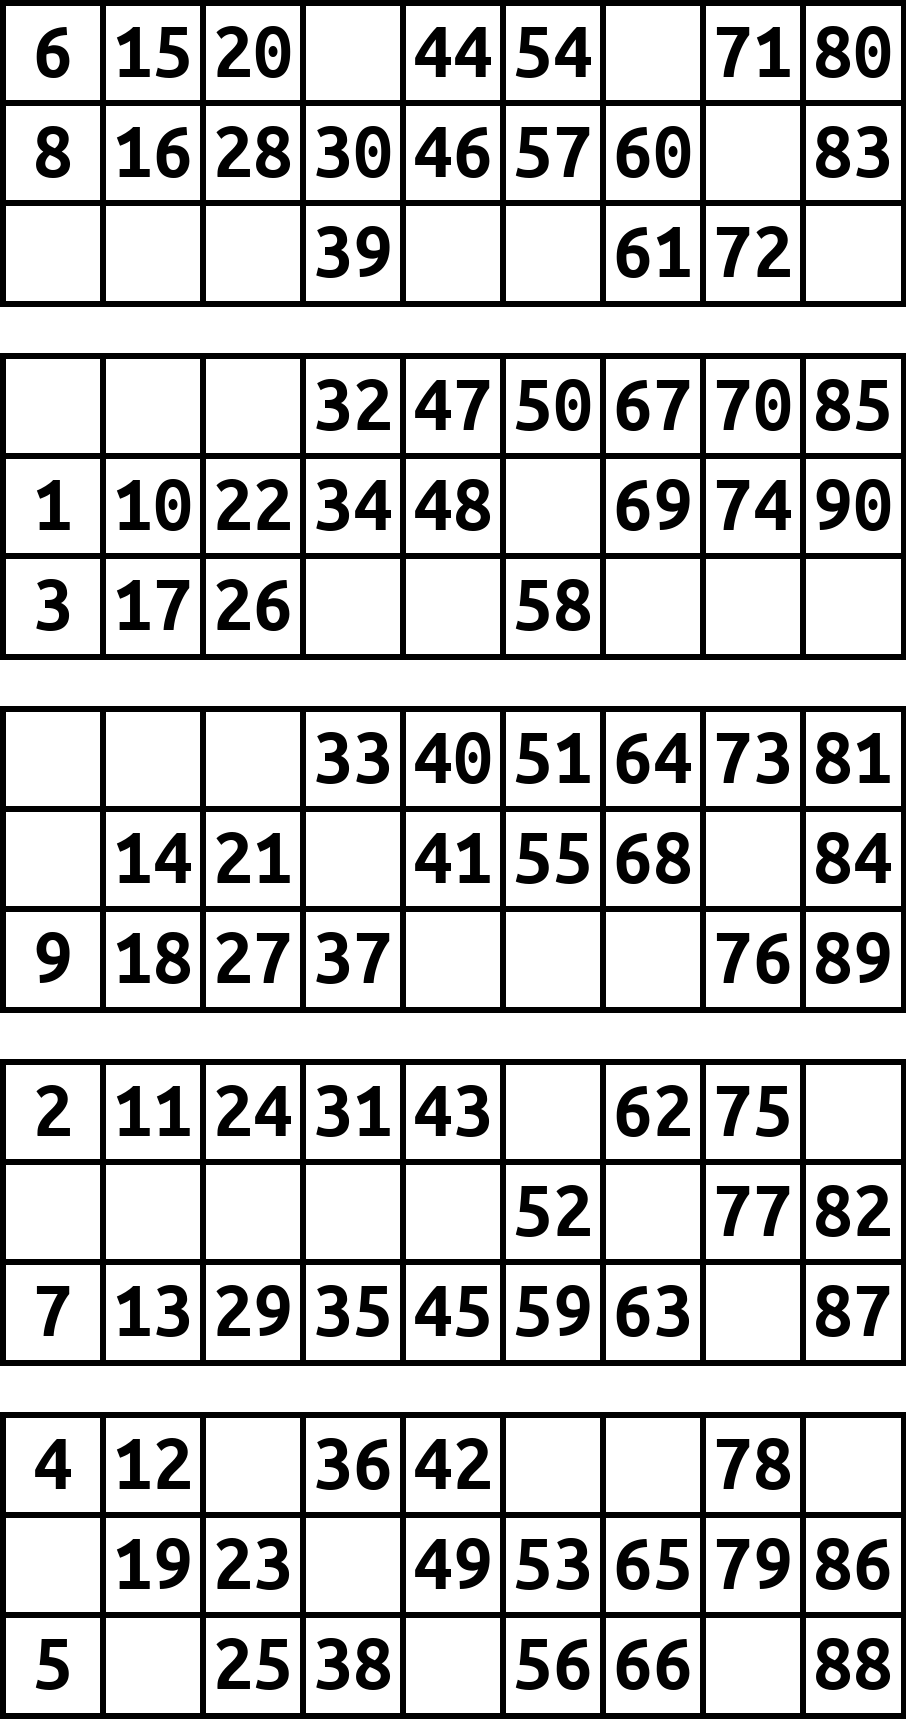
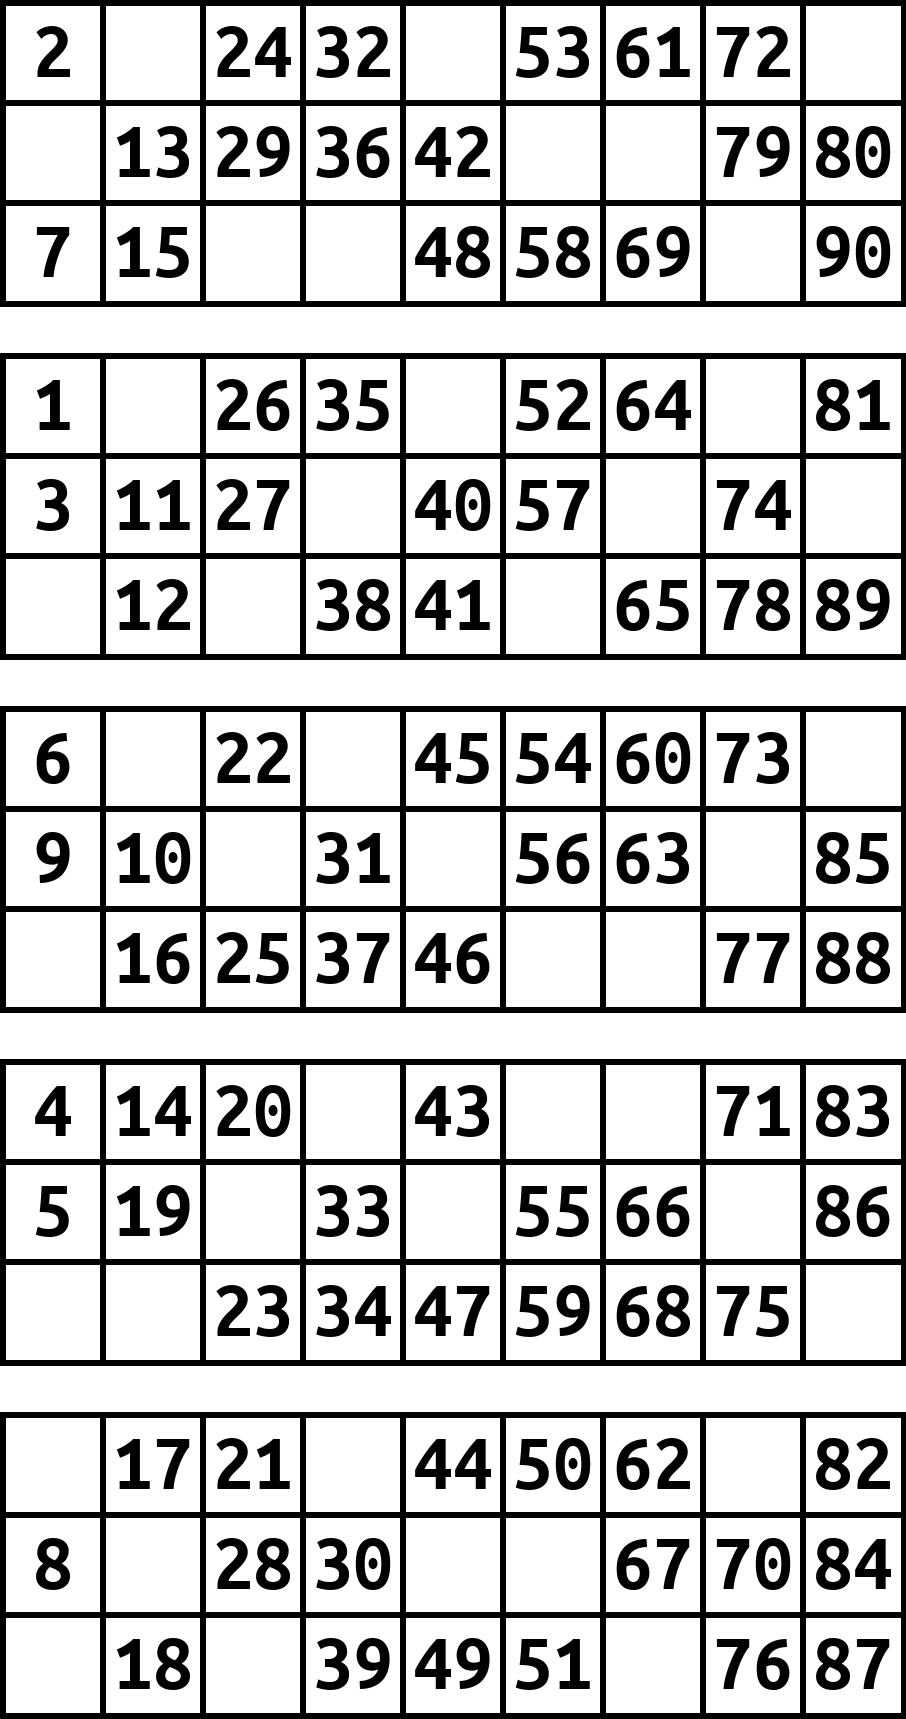
Fixed spaces
The script runs now as intended. It is a bit messy and should be cleaned, but works

diff --git a/Bingo.py b/Bingo.py
@@ -1,6 +1,5 @@
 from PIL import Image, ImageDraw, ImageFont
 import numpy as np
-from random import shuffle
 
 #%%
 
@@ -23,6 +22,14 @@ def BingoSheet(bingoNumber:int = 0):
     # heightBalancing
     hB = (m+border)/2
     
+    blankList = np.repeat([0,0,0,1,1,1,2,2,2], 5).reshape(9,5)
+
+    for i in range(5):
+        rng.shuffle(blankList[:,i])
+
+    blankList = blankList.tolist()
+    blankList[0].append(blankList[-1].pop(-1))
+
     "List with numbers 1-9, 10-19, 20-29,...,80-90"
     numberList = []
     for i in range(9):
@@ -38,14 +45,14 @@ def BingoSheet(bingoNumber:int = 0):
         if i == 0:
             currNums = np.split(numberList[i][1:],4)
             currNums.append(np.array(numberList[i][0]))
-            shuffle(currNums)
+            rng.shuffle(currNums)
             for ind, element in enumerate(currNums):
                 if element.size == 1:
                     specialIndex = ind
         elif i == 8:
             currNums = np.split(numberList[i][3:],4)
             currNums.append(np.array(numberList[i][0:3]))
-            shuffle(currNums)
+            rng.shuffle(currNums)
             # align special columns
             for ind, element in enumerate(currNums):
                 if (element.size == 3) and (ind != specialIndex):
@@ -53,12 +60,19 @@ def BingoSheet(bingoNumber:int = 0):
                         specialIndex], currNums[ind]
         else:
             currNums = np.split(numberList[i],5)
-            shuffle(currNums)
+            rng.shuffle(currNums)
         
         for ii in range(5):
             # ii stands for one rectangle at a time
             # blank chooses a number set to skip drawing a number
-            blank = rng.choice(3, 3-currNums[ii].size, False)
+            if currNums[ii].size==1:
+                blank = [blankList[i].pop(0), blankList[i].pop(0)]
+            elif currNums[ii].size==3:
+                blank = []
+            else:
+                blank = blankList[i].pop(0)
+
+            
             counter = 0
             if currNums[ii].size>1: currNums[ii] = np.sort(currNums[ii])
             for iii in range(3):
@@ -68,14 +82,24 @@ def BingoSheet(bingoNumber:int = 0):
                                 (m*i+m+border, m*(iii+ii*3)+m+border+ii*hB)], 
                                fill = (255,255,255), 
                                outline = (0,0,0), width=border)
-                if iii not in blank:
-                    try:
-                        number = currNums[ii][counter]
-                    except: number = currNums[ii]
-                    img1.text((m*i+m/2+border/2,m*(iii+ii*3)+ii*hB+m/2+size/3), 
-                              str(number),
-                              fill=(0,0,0), font=font, anchor = "ms")
-                    counter += 1
+                try:
+                    if iii not in blank:
+                        try:
+                            number = currNums[ii][counter]
+                        except: number = currNums[ii]
+                        img1.text((m*i+m/2+border/2,m*(iii+ii*3)+ii*hB+m/2+size/3), 
+                                  str(number),
+                                  fill=(0,0,0), font=font, anchor = "ms")
+                        counter += 1
+                except:
+                    if iii != blank:
+                        try:
+                            number = currNums[ii][counter]
+                        except: number = currNums[ii]
+                        img1.text((m*i+m/2+border/2,m*(iii+ii*3)+ii*hB+m/2+size/3), 
+                                  str(number),
+                                  fill=(0,0,0), font=font, anchor = "ms")
+                        counter += 1
             
     img.save(f"BingoBlaetter/BingoGanz{abs(bingoNumber)}.png")
     
@@ -84,9 +108,6 @@ def BingoSheet(bingoNumber:int = 0):
 
 # integer argument creates different bingo sheets +1, default is one
 BingoSheet()
-
-
-
 
 
 
